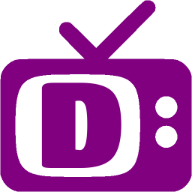
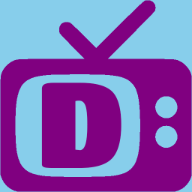
watch page background adjust

diff --git a/client/src/components/useUserMedia/useUserMedia.jsx b/client/src/components/useUserMedia/useUserMedia.jsx
@@ -1,32 +1,30 @@
-import { useState, useEffect } from "react";
+import { useState, useEffect } from "react"
 
-const useUserMedia = (requestedMedia) => {
+const useUserMedia = requestedMedia => {
   const [mediaStream, setMediaStream] = useState(null);
 
   useEffect(() => {
     const enableStream = async () => {
       try {
-        const stream = await navigator.mediaDevices.getUserMedia(
-          requestedMedia
-        );
+        const stream = await navigator.mediaDevices.getUserMedia(requestedMedia);
         setMediaStream(stream);
-      } catch (err) {
-        console.log(err);
+      } catch(err) {
+        console.log(err)
       }
-    };
+    }
 
     if (!mediaStream) {
       enableStream();
     } else {
       return function cleanup() {
-        mediaStream.getTracks().forEach((track) => {
+        mediaStream.getTracks().forEach(track => {
           track.stop();
         });
-      };
+      }
     }
   }, [mediaStream, requestedMedia]);
 
   return mediaStream;
-};
+}
 
-export default useUserMedia;
+export default useUserMedia

diff --git a/client/src/components/Watch/Watch.css b/client/src/components/Watch/Watch.css
@@ -15,7 +15,7 @@ body {
 .watch__main-container {
   text-align: center;
   background-color: skyblue;
-  height: 100vh;
+  min-height: 100vh;
     background-position: center;
   background-attachment: fixed;
   background-size: cover;
